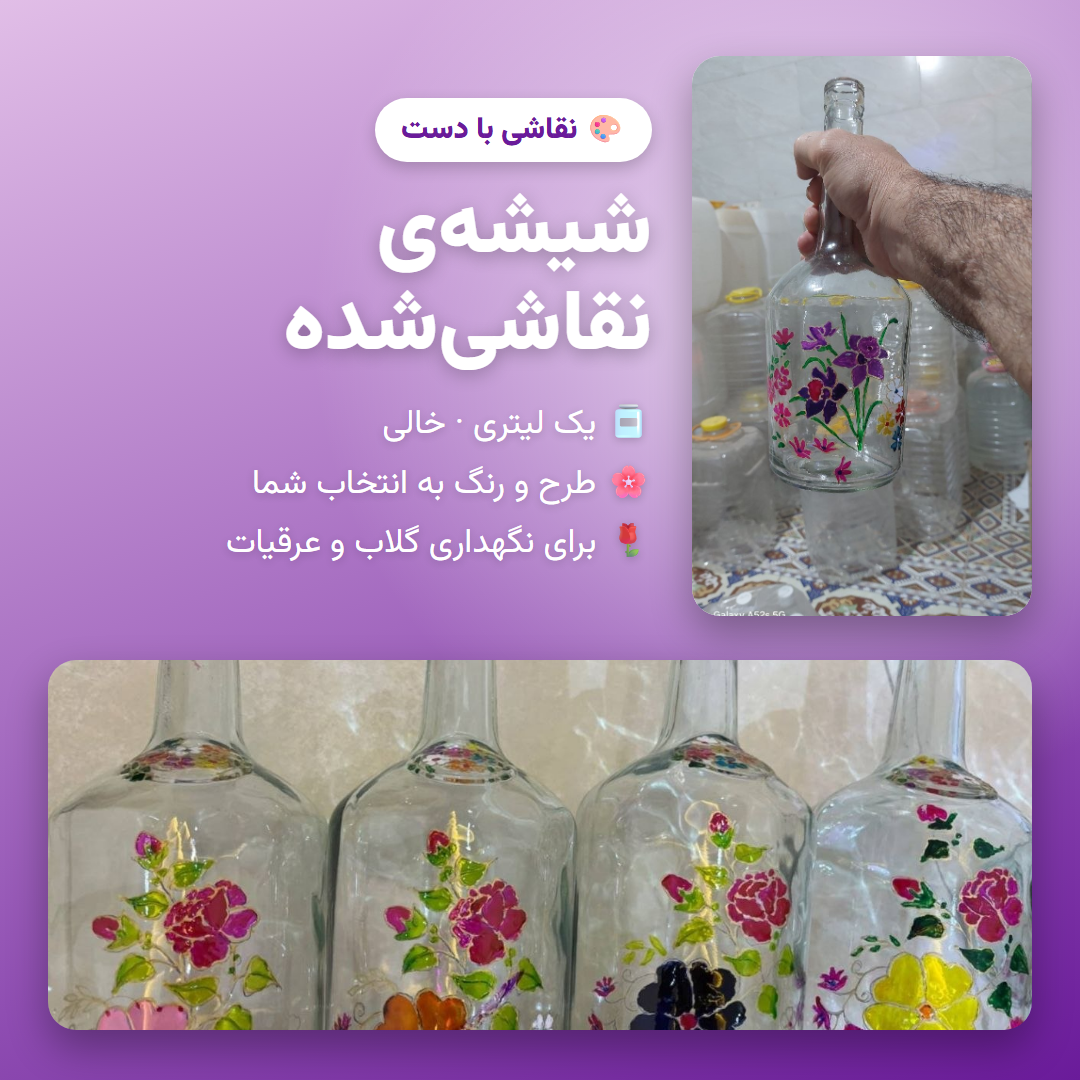
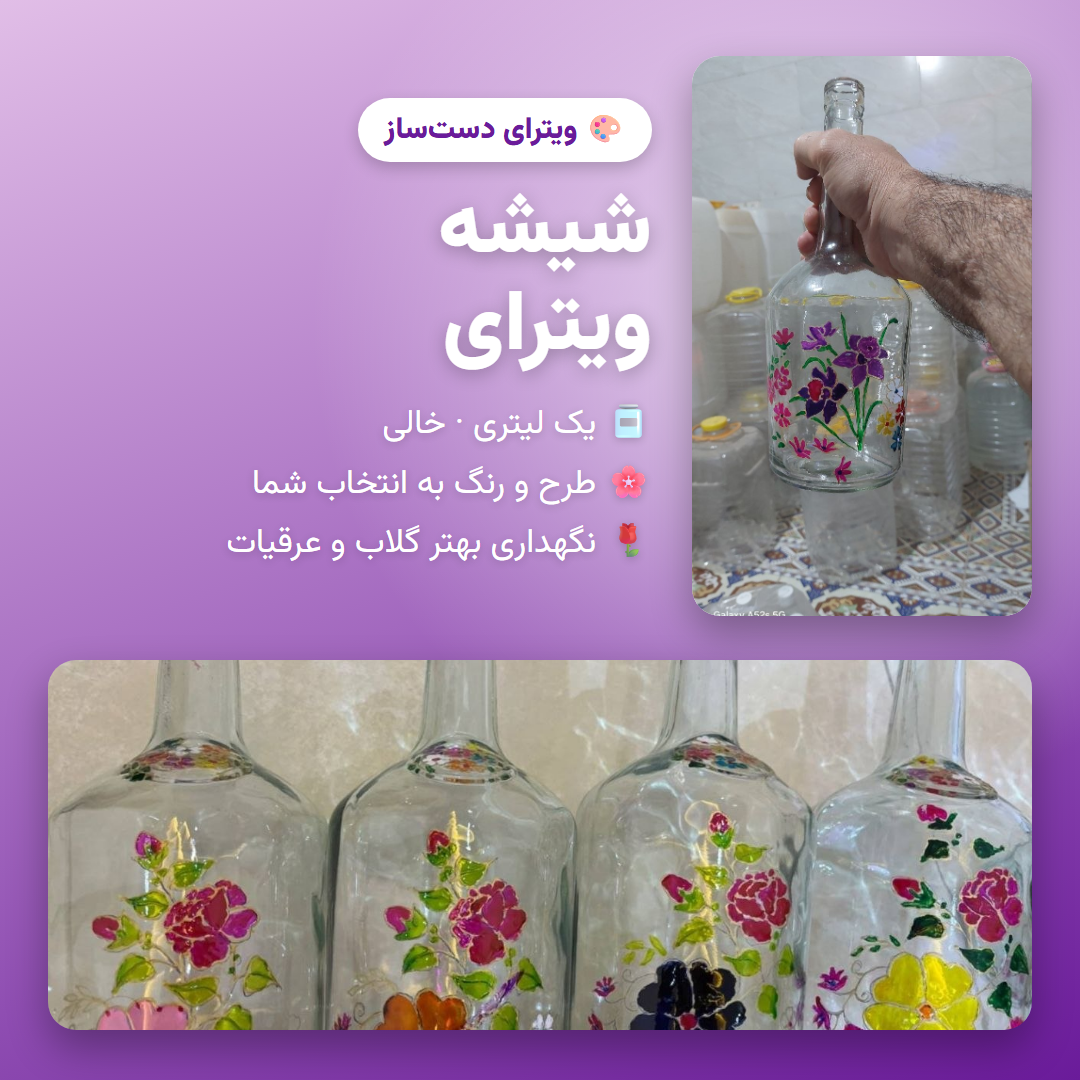
Rename painted bottle to vitray bottle for better storage of herbal waters

diff --git a/tools/bottle_card.html b/tools/bottle_card.html
@@ -2,7 +2,7 @@
 <html lang="fa" dir="rtl">
 <head>
 <meta charset="utf-8">
-<!-- عکس محصول «شیشهی نقاشیشده» از روی عکسهای واقعی پوشهی «سفارشی»؛ خروجی: public/img/shishe-naghashi.png -->
+<!-- عکس محصول «شیشه ویترای» از روی عکسهای واقعی پوشهی «سفارشی»؛ خروجی: public/img/shishe-naghashi.png -->
 <link href="https://fonts.googleapis.com/css2?family=Vazirmatn:wght@400;700;900&display=block" rel="stylesheet">
 <style>
   html, body { margin: 0; width: 1080px; height: 1080px; overflow: hidden; }
@@ -27,12 +27,12 @@
   <div class="top">
     <div class="box"><img src="../سفارشی/photo_6030549836878253936_y.jpg"></div>
     <div class="text">
-      <span class="badge">🎨 نقاشی با دست</span>
-      <h1>شیشهی<br>نقاشیشده</h1>
+      <span class="badge">🎨 ویترای دستساز</span>
+      <h1>شیشه<br>ویترای</h1>
       <ul>
         <li>🫙 یک لیتری · خالی</li>
         <li>🌸 طرح و رنگ به انتخاب شما</li>
-        <li>🌹 برای نگهداری گلاب و عرقیات</li>
+        <li>🌹 نگهداری بهتر گلاب و عرقیات</li>
       </ul>
     </div>
   </div>

diff --git a/products.js b/products.js
@@ -12,7 +12,7 @@ export const MAX_DESCRIPTION_LENGTH = 600;
 // زیر توضیحات همهی محصولات خوراکی میآید
 export const PRODUCT_QUALITY_NOTE = '🌿 ارگانیک و بدون هیچگونه افزودنی\n🗓 بهترین زمان مصرف: تا ۶ ماه پس از خرید';
 
-// محصولی که عنوانش «شیشه» دارد ظرف خالی است (مثل «🎨 شیشهی نقاشیشده») و نکتهی بالا را نمیگیرد
+// محصولی که عنوانش «شیشه» دارد ظرف خالی است (مثل «🎨 شیشه ویترای ...») و نکتهی بالا را نمیگیرد
 export function isEdibleProduct(product) {
   return !String(product?.title || '').includes('شیشه');
 }
